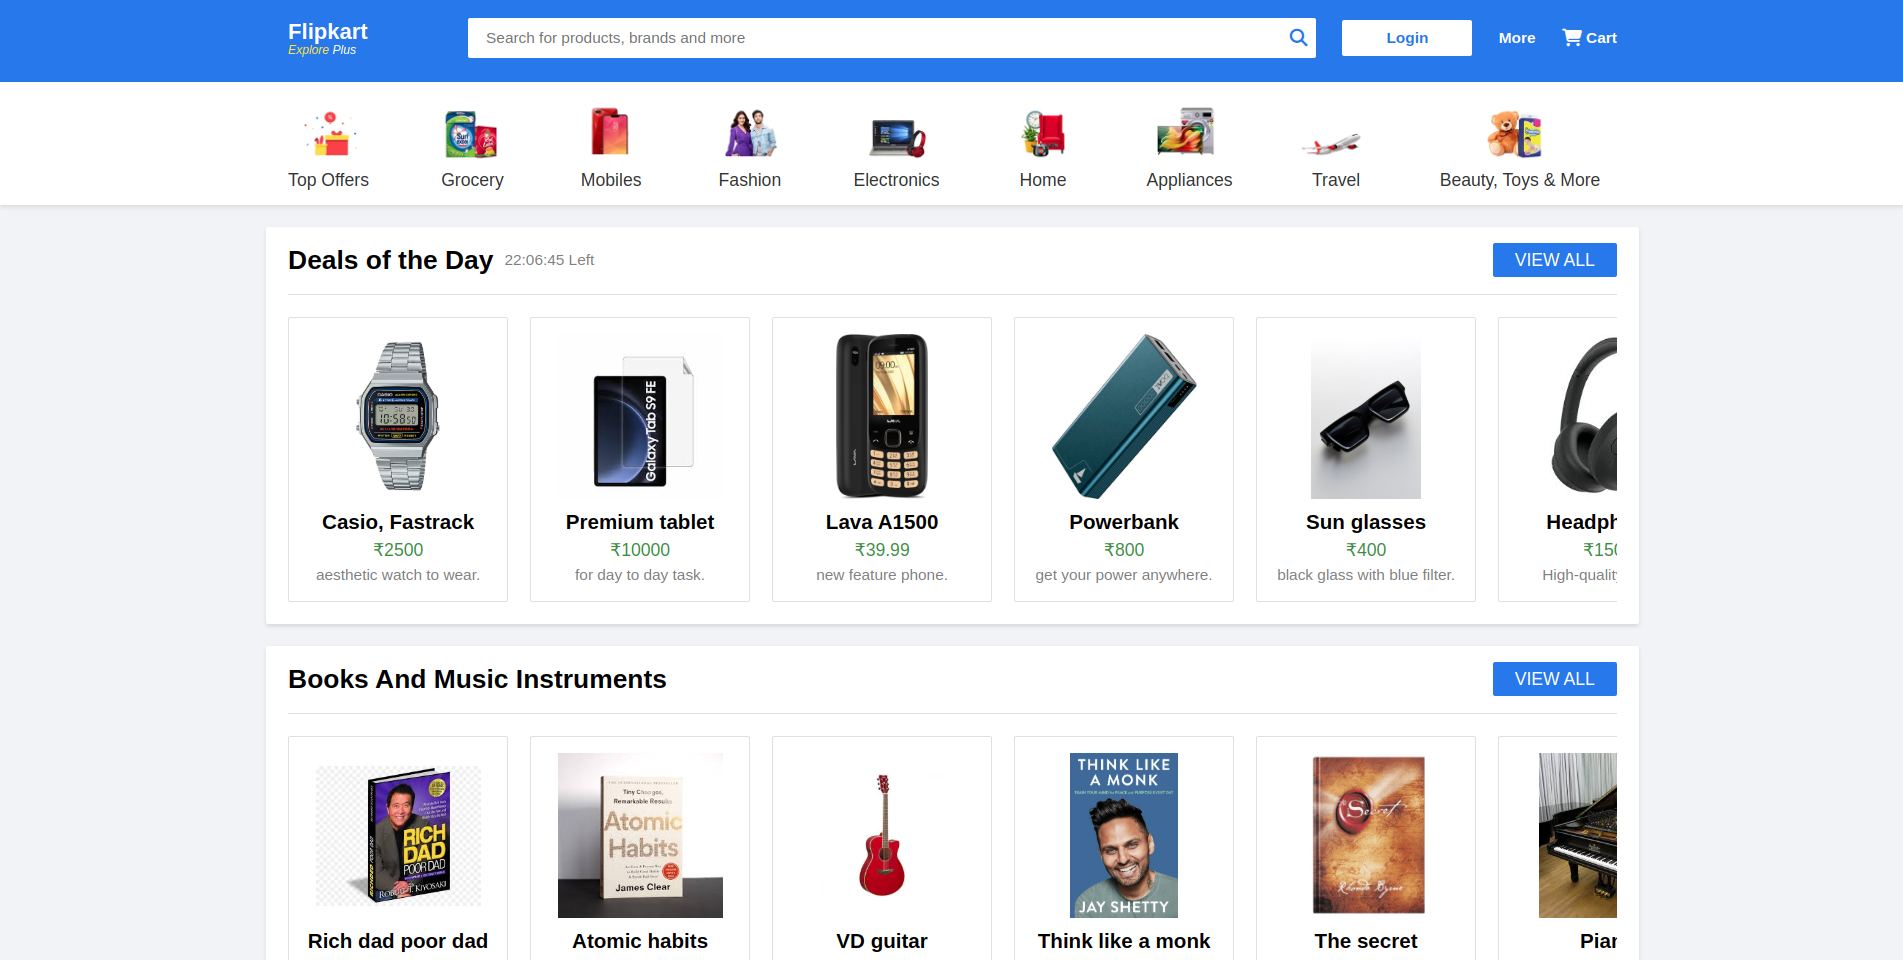
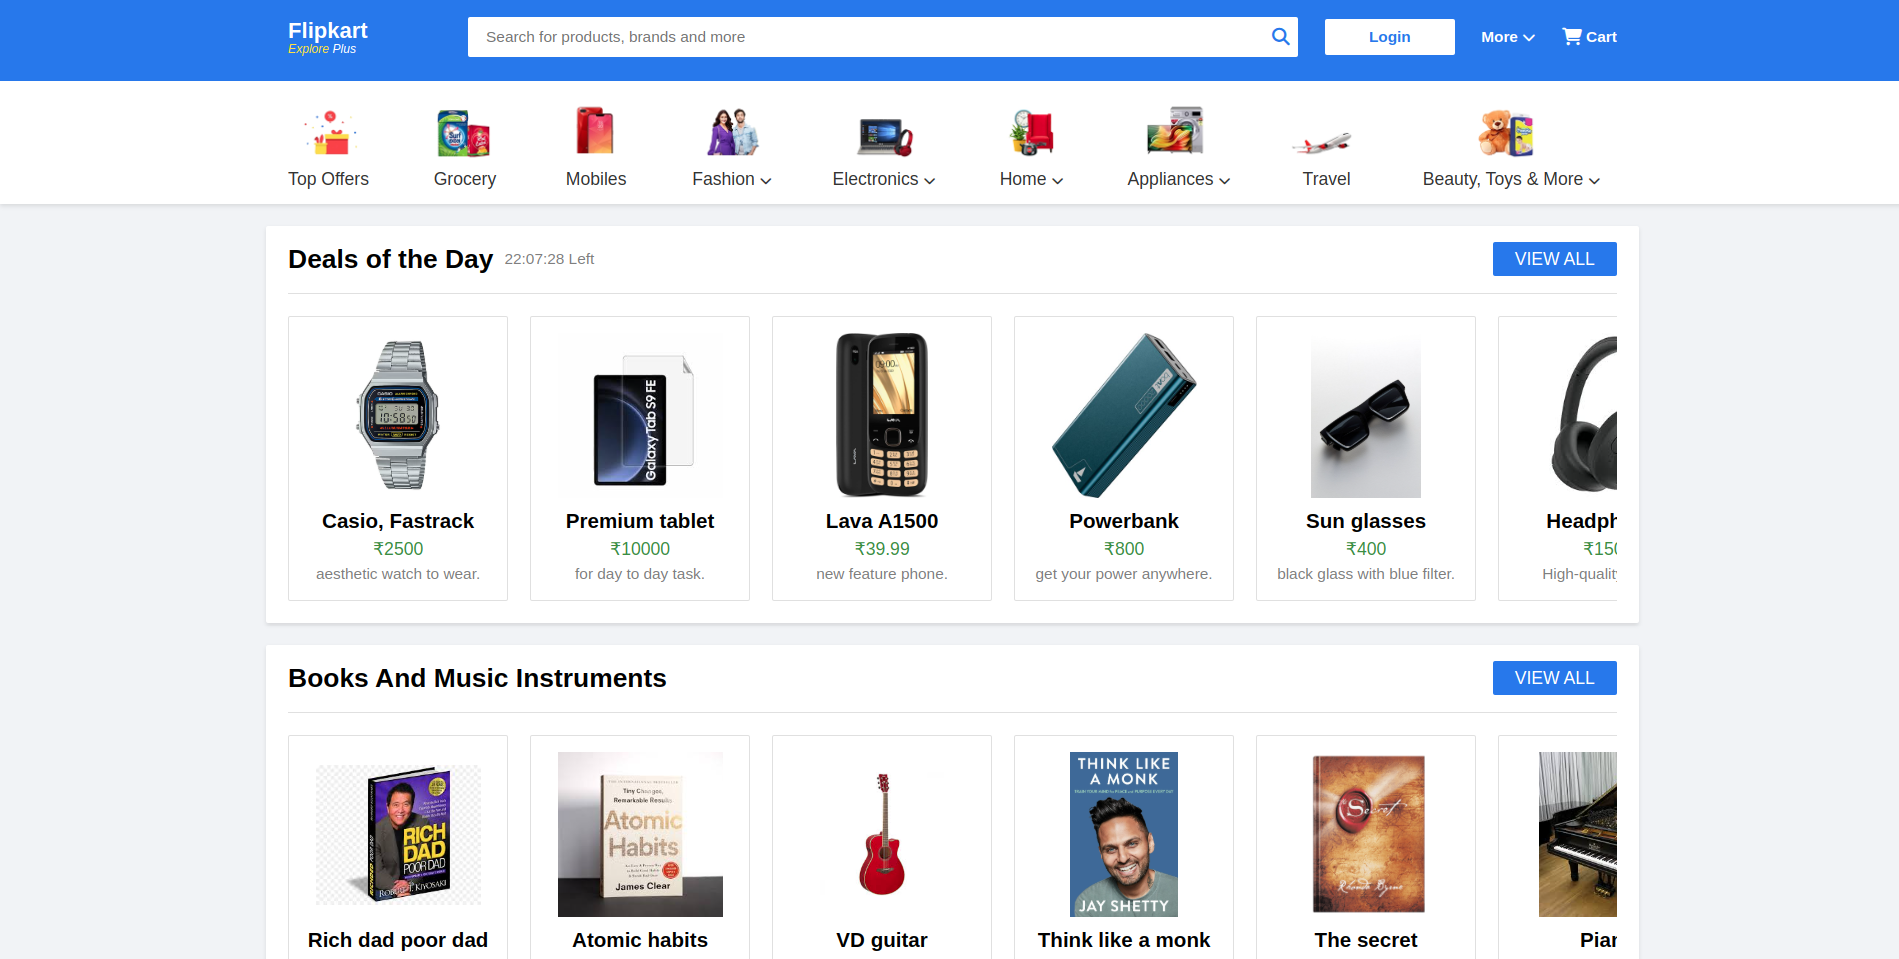
feat: added down arrows

diff --git a/index.html b/index.html
@@ -14,7 +14,8 @@
             <div class="header-container">
                 <a href="#" class="logo">
                     <span class="main-logo">Flipkart</span>
-                    <span class="tagline">Explore
+                    <span class="tagline">
+                        Explore
                         <span>Plus</span>
                     </span>
                 </a>
@@ -26,7 +27,10 @@
                 </div>
                 <button class="login-btn">Login</button>
                 <nav class="nav-links">
-                    <a href="#">More</a>
+                    <a href="#">
+                        More
+                        <i class="fa-solid fa-chevron-down"></i>
+                    </a>
                     <a href="#">
                         <i class="fas fa-shopping-cart"></i>
                         Cart
@@ -51,19 +55,27 @@
                 </a>
                 <a href="#" class="nav-item" title="Explore Fashion">
                     <img src="images/nav/fashion.png" alt="Fashion">
-                    <span>Fashion</span>
+                    <span>Fashion
+                        <i class="fa-solid fa-chevron-down"></i>
+                    </span>
                 </a>
                 <a href="#" class="nav-item" title="Explore Electronics">
                     <img src="images/nav/elec.png" alt="Electronics">
-                    <span>Electronics</span>
+                    <span>Electronics
+                        <i class="fa-solid fa-chevron-down"></i>
+                    </span>
                 </a>
                 <a href="#" class="nav-item" title="Explore Home">
                     <img src="images/nav/home.png" alt="Home">
-                    <span>Home</span>
+                    <span>Home
+                        <i class="fa-solid fa-chevron-down"></i>
+                    </span>
                 </a>
                 <a href="#" class="nav-item" title="Explore Appliances">
                     <img src="images/nav/appliances.png" alt="Appliances">
-                    <span>Appliances</span>
+                    <span>Appliances
+                        <i class="fa-solid fa-chevron-down"></i>
+                    </span>
                 </a>
                 <a href="#" class="nav-item" title="Explore Travel">
                     <img src="images/nav/travel.png" alt="Travel">
@@ -71,7 +83,9 @@
                 </a>
                 <a href="#" class="nav-item" title="Explore Beauty, Toys & More">
                     <img src="images/nav/Beauty,toy.png" alt="Beauty, Toys & More">
-                    <span>Beauty, Toys & More</span>
+                    <span>Beauty, Toys & More
+                        <i class="fa-solid fa-chevron-down"></i>
+                    </span>
                 </a>
             </div>
         </nav>

diff --git a/style.css b/style.css
@@ -102,7 +102,11 @@
 }
 
 .nav-links a i {
-    font-size: 16px;
+  font-size: 12px;
+}
+
+.nav-links a i.fa-shopping-cart {
+  font-size: 16px;
 }
 
 /* Category Navigation */
@@ -299,4 +303,8 @@ body {
   .nav-item {
     margin-right: 15px;
   }
+}
+
+.fa-chevron-down {
+  font-size: 11px;
 }
